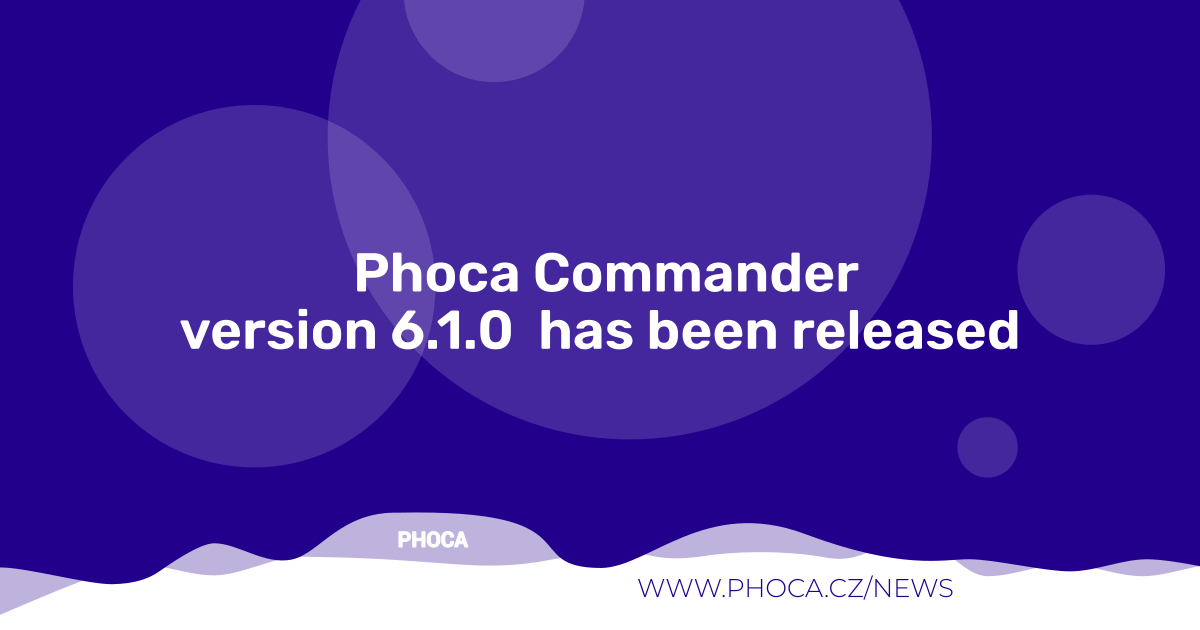
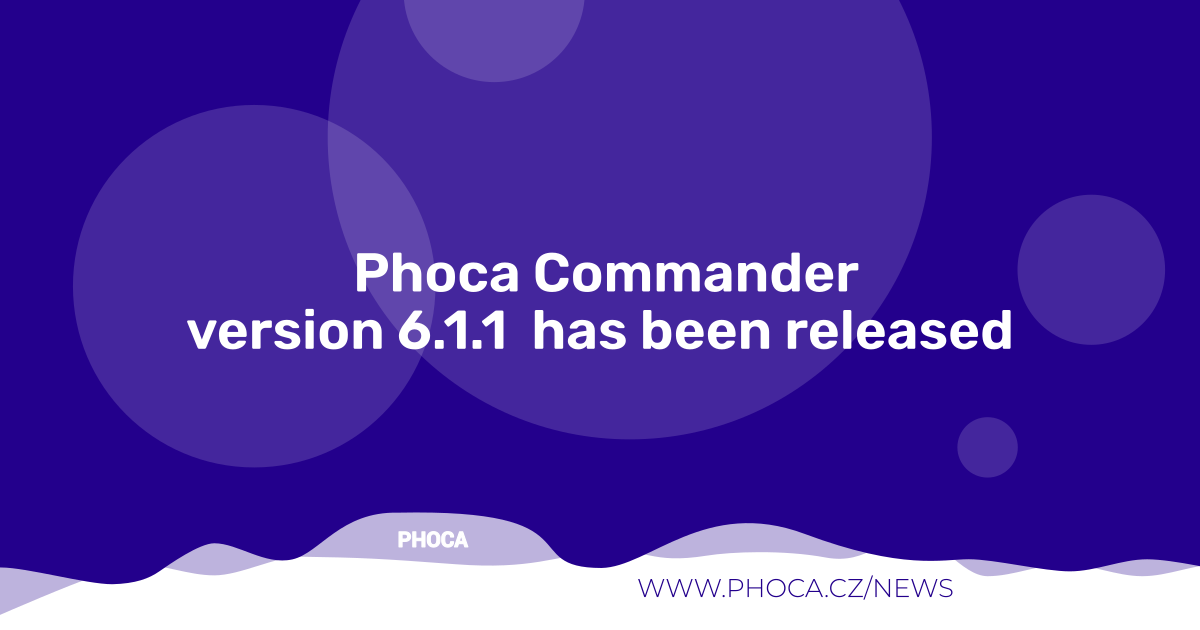
6.1.1

Changed region(s): [[0.1542, 0.4825, 0.8633, 0.573]]

diff --git a/admin/helpers/phocacommander.php b/admin/helpers/phocacommander.php
@@ -7,15 +7,16 @@
  * @license http://www.gnu.org/copyleft/gpl.html GNU/GPL
  */
 defined('_JEXEC') or die;
-use Joomla\Filesystem\Folder;
-use Joomla\CMS\Installer\Installer;
 use Joomla\CMS\Client\ClientHelper;
-use Joomla\Filesystem\Path;
 use Joomla\CMS\Client\FtpClient;
-use Joomla\Filesystem\File;
-use Joomla\CMS\Uri\Uri;
-use Joomla\CMS\Plugin\PluginHelper;
+use Joomla\CMS\Component\ComponentHelper;
 use Joomla\CMS\Factory;
+use Joomla\CMS\Installer\Installer;
+use Joomla\CMS\Plugin\PluginHelper;
+use Joomla\CMS\Uri\Uri;
+use Joomla\Filesystem\File;
+use Joomla\Filesystem\Folder;
+use Joomla\Filesystem\Path;
 class PhocaCommanderHelper
 {
 	/*
@@ -1193,6 +1194,71 @@ class PhocaCommanderHelper
 
 	public static function folderExists($path) {
 		return is_dir(Path::clean($path));
+	}
+
+
+	/**
+	 * Real path-containment check.
+	 *
+	 * Path::clean() only normalizes slashes/dots - it does NOT reject a
+	 * '../' sequence that walks the resolved path outside of $base. This
+	 * resolves both $path and $base with realpath() (which collapses any
+	 * '../' and symlinks) and confirms the resolved $path is still inside
+	 * the resolved $base directory.
+	 *
+	 * Returns the safe, resolved absolute path on success, or false if
+	 * $path does not exist or escapes $base.
+	 */
+	public static function getContainedRealPath($path, $base) {
+		$realBase = realpath($base);
+		$realPath = realpath($path);
+
+		if ($realBase === false || $realPath === false) {
+			return false;
+		}
+
+		$realBase = rtrim(str_replace('\\', '/', $realBase), '/') . '/';
+		$realPath = str_replace('\\', '/', $realPath);
+
+		// $realPath must be $realBase itself, or a path strictly inside it.
+		if (($realPath . '/') !== $realBase && strpos($realPath . '/', $realBase) !== 0) {
+			return false;
+		}
+
+		return $realPath;
+	}
+
+	/**
+	 * Extensions that must never be written by the file editor's save()
+	 * action, mirroring the deny-list already enforced on regular uploads
+	 * in admin/helpers/fileupload.php.
+	 */
+	public static function getDisallowedEditExtensions() {
+		$default = 'php,php2,php3,php4,php5,php6,php7,php8,phtml,phar,pht,phps,phps3,phpt,cgi,pl,py,asp,aspx,jsp,jspx,sh,bash,exe,dll,so,htaccess,htpasswd,ini,user.ini';
+
+		$params = ComponentHelper::getParams('com_phocacommander');
+		$disallowed = $params->get('disallowed_edit_extensions', $default);
+
+		if (trim($disallowed) === '') {
+			$disallowed = $default;
+		}
+
+		$exts = explode(',', $disallowed);
+		$exts = array_map('trim', $exts);
+		$exts = array_map('strtolower', $exts);
+
+		return array_values(array_filter($exts, function ($val) {
+			return $val !== '';
+		}));
+	}
+
+	/**
+	 * True if $fileName has an extension that the editor is not allowed
+	 * to write to, based on getDisallowedEditExtensions().
+	 */
+	public static function isDisallowedEditExtension($fileName) {
+		$ext = strtolower(pathinfo($fileName, PATHINFO_EXTENSION));
+		return in_array($ext, self::getDisallowedEditExtensions(), true);
 	}
 }
 ?>

diff --git a/admin/controllers/phocacommanderedit.php b/admin/controllers/phocacommanderedit.php
@@ -122,6 +122,21 @@ class PhocaCommanderCpControllerPhocaCommanderEdit extends FormController
 		$context 	= "$this->option.edit.$this->context";
 		$file		= $app->getInput()->get( 'filename', '', 'string'  );
 
+		// Explicit core.edit check: don't rely solely on the blanket
+		// core.manage gate in phocacommander.php - download() is paired
+		// with the editor's edit()/save() actions, both of which already
+		// require core.edit, and should not be reachable by a lower bar.
+		$user = Factory::getUser();
+		if (!$user->authorise('core.edit', 'com_phocacommander')) {
+			$app->enqueueMessage(Text::_('JLIB_APPLICATION_ERROR_EDIT_NOT_PERMITTED'), 'error');
+			$this->setRedirect(
+				Route::_(
+					'index.php?option=' . $this->option . '&view=' . $this->view_list
+					. $this->getRedirectToListAppend(), false
+				)
+			);
+			return false;
+		}
 
 		$file 		= base64_decode($file);
 
@@ -129,8 +144,18 @@ class PhocaCommanderCpControllerPhocaCommanderEdit extends FormController
 
 		$pathFolder	= Path::clean($path . '/' .$file);
 
+		// Real path-containment check: resolve the target and confirm it
+		// is still inside JPATH_ROOT. Path::clean() alone does not reject
+		// a '../' that escapes the root, so an unresolved path could still
+		// point outside the intended directory (e.g. configuration.php via
+		// a traversal, or any file elsewhere on disk the web server can read).
+		$safePathFolder = PhocaCommanderHelper::getContainedRealPath($pathFolder, $path);
+		if ($safePathFolder !== false) {
+			$pathFolder = $safePathFolder;
+		}
+
 		$mimeType = '';
-		if (PhocaCommanderHelper::fileExists($pathFolder)) {
+		if ($safePathFolder !== false && PhocaCommanderHelper::fileExists($pathFolder)) {
 
 			if (function_exists('mime_content_type')) {
 				$mimeType 	= mime_content_type($pathFolder);

diff --git a/admin/models/phocacommanderedit.php b/admin/models/phocacommanderedit.php
@@ -68,6 +68,25 @@ class PhocaCommanderCpModelPhocaCommanderEdit extends AdminModel
 				$filePath = Path::clean(JPATH_ROOT . '/' . $fileName);
 
 				if (PhocaCommanderHelper::fileExists($filePath)) {
+
+					// Extension deny-list: never allow the file editor to
+					// write server-executable file types, regardless of
+					// who holds core.edit.
+					if (PhocaCommanderHelper::isDisallowedEditExtension($filePath)) {
+						$app->enqueueMessage(Text::_('COM_PHOCACOMMANDER_ERROR_FILE_TYPE_NOT_ALLOWED'), 'error');
+						return false;
+					}
+
+					// Real path-containment check: resolve the target and
+					// confirm it is still inside JPATH_ROOT. Path::clean()
+					// alone does not reject a '../' that escapes the root.
+					$safePath = PhocaCommanderHelper::getContainedRealPath($filePath, JPATH_ROOT);
+					if ($safePath === false) {
+						$app->enqueueMessage(Text::_('COM_PHOCACOMMANDER_ERROR_INVALID_PATH'), 'error');
+						return false;
+					}
+					$filePath = $safePath;
+
 					//JClientHelper::setCredentialsFromRequest('ftp');
 					//$ftp = JClientHelper::getCredentials('ftp');
 					$user = get_current_user();

diff --git a/admin/views/phocacommanderactiona/view.json.php b/admin/views/phocacommanderactiona/view.json.php
@@ -129,6 +129,12 @@ class PhocaCommanderCpViewPhocaCommanderActionA extends HtmlView
 						echo $r->_('0', Text::_('COM_PHOCACOMMANDER_ERROR_NEW_FILE_NAME_EXISTS'));return;
 					}
 
+					// Don't allow rename to turn a file into a server-executable
+					// type that skips the upload deny-list (e.g. .jpg -> .php).
+					if (PhocaCommanderHelper::isDisallowedEditExtension($newValue)) {
+						echo $r->_('0', Text::_('COM_PHOCACOMMANDER_ERROR_FILE_TYPE_NOT_ALLOWED'));return;
+					}
+
 					if (PhocaCommanderHelper::fileExists($oldValue)) {
 						if (File::move($oldValue, $newValue)) {
 							echo $r->_('1', Text::_('COM_PHOCACOMMANDER_FILE_RENAMED'));return;

diff --git a/admin/helpers/phocacommanderedit.php b/admin/helpers/phocacommanderedit.php
@@ -23,4 +23,3 @@ class PhocaCommanderEditHelper
 		return $result;
 	}
 }
-?>

diff --git a/README.MD b/README.MD
@@ -70,7 +70,7 @@ If you need additional information beyond this GitHub repository, further docume
 ### Version (Joomla! 5.x - no longer supported)
 5.1.0
 ### Version (Joomla! 6.x)
-6.1.0
+6.1.1
 
 ### License
 